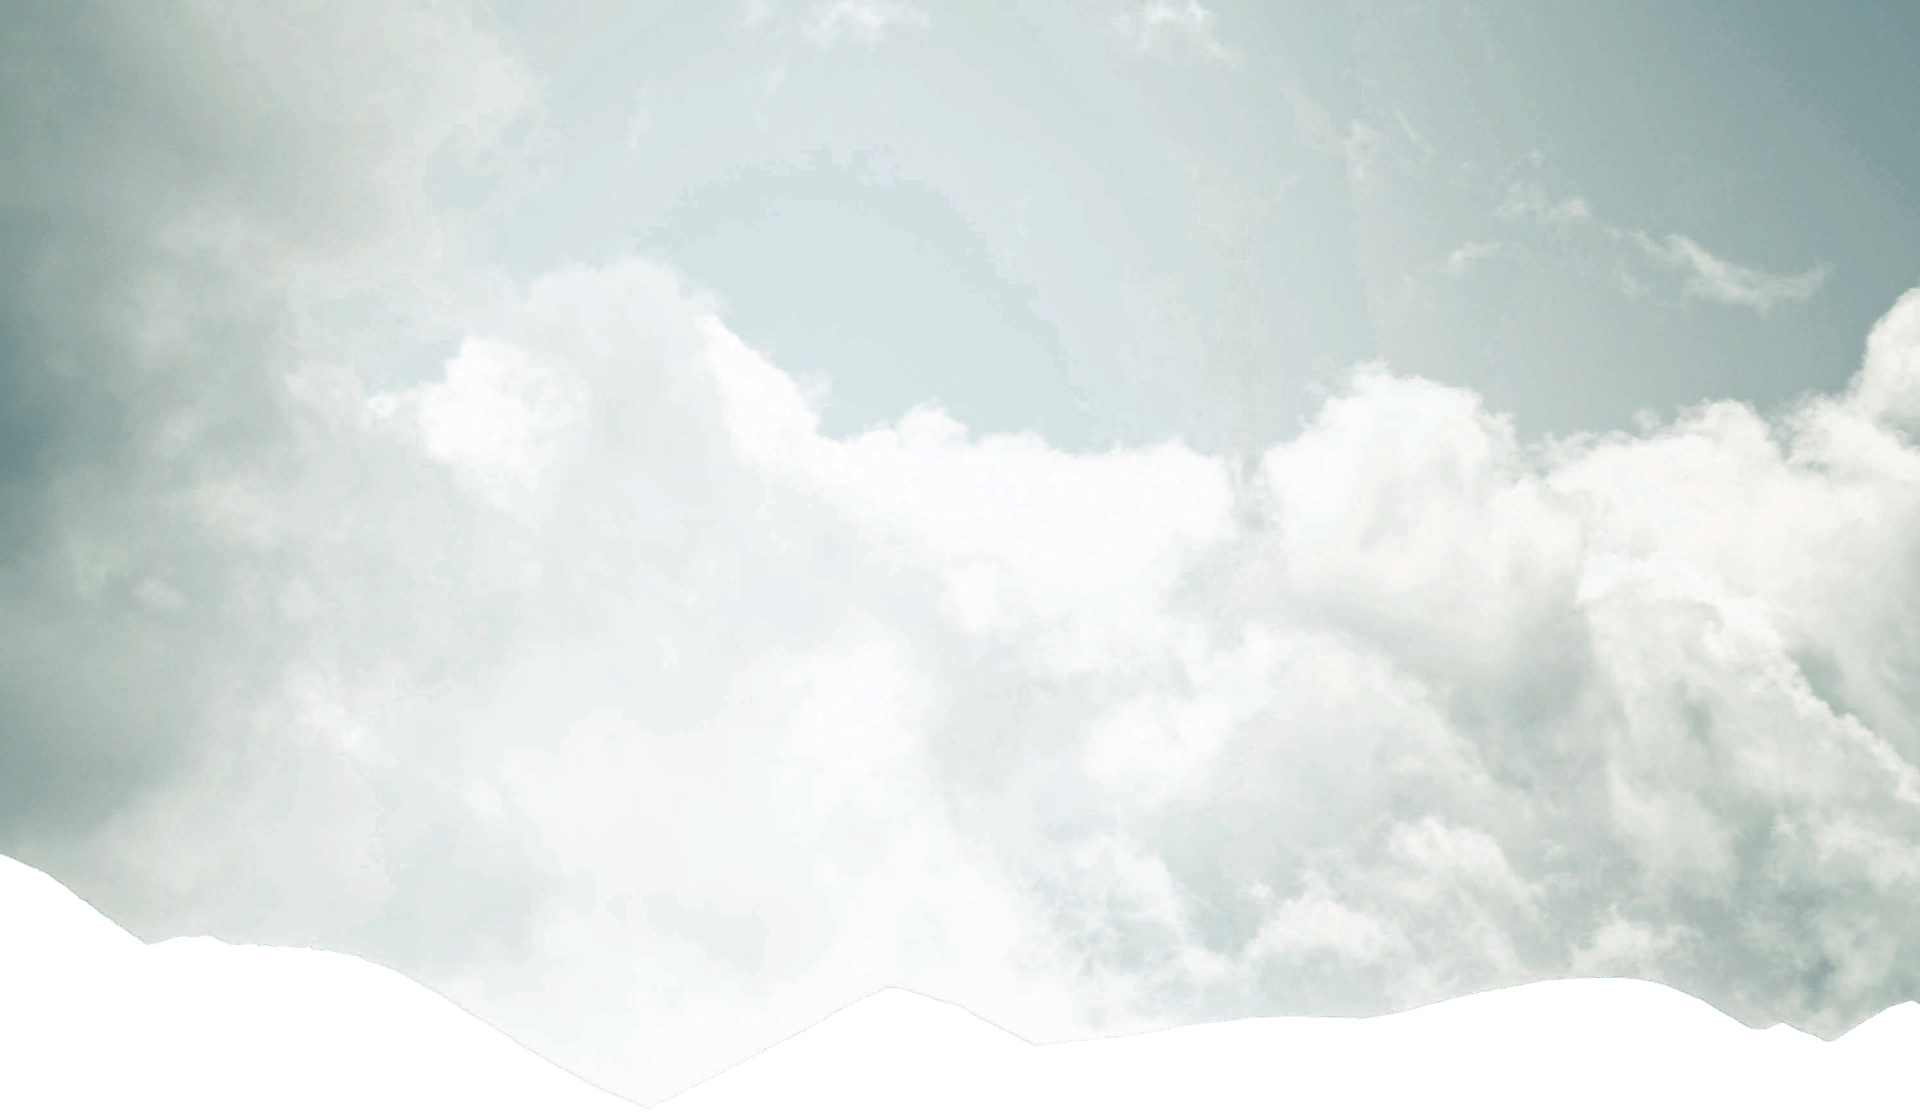
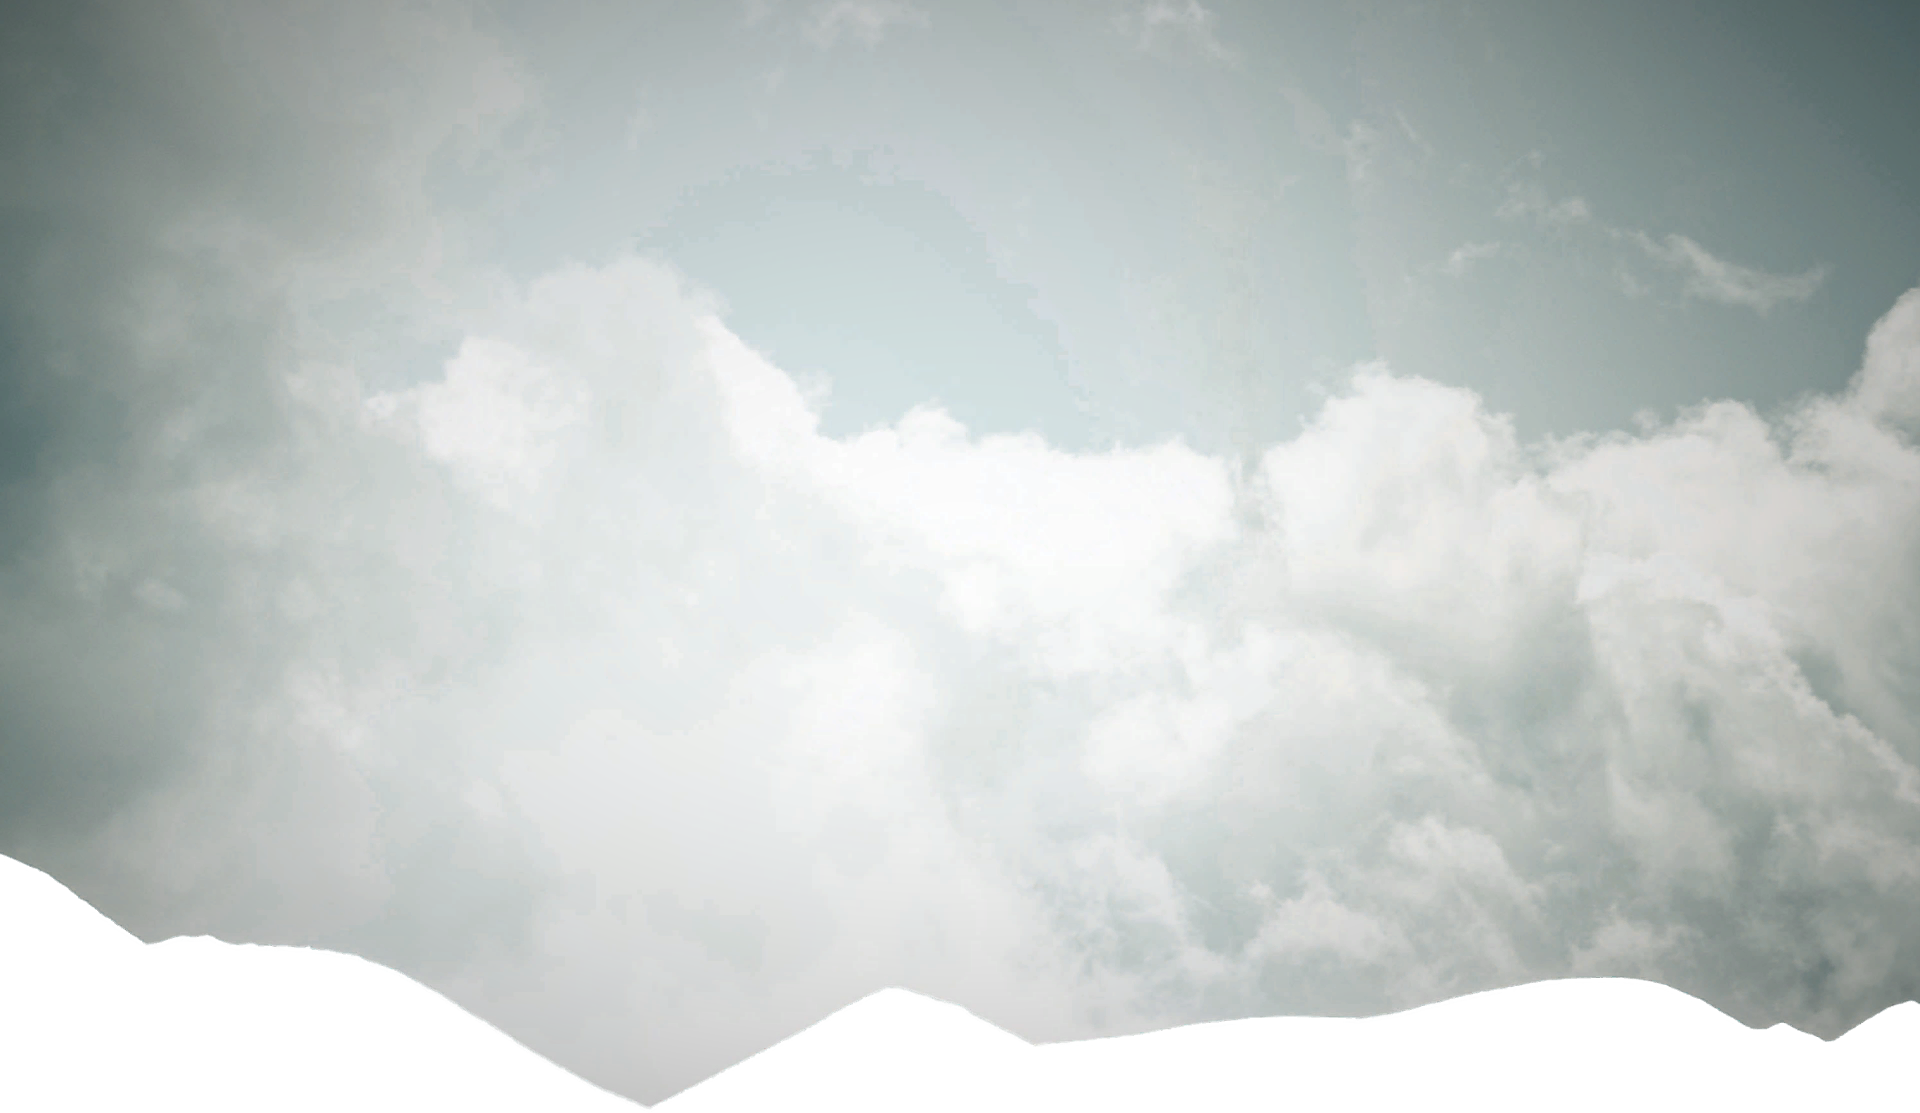
layout comoleted

diff --git a/css/style.css b/css/style.css
@@ -577,10 +577,8 @@ body._lock {
 
 .parallax {
   position: absolute;
-  width: 120%;
-  height: 120%;
-  top: -10%;
-  left: -10%;
+  width: 100%;
+  height: 100%;
   z-index: 1;
 }
 
@@ -603,7 +601,7 @@ body._lock {
 
 .parallax__human {
   background: url("../img/human.png") top/cover no-repeat;
-  top: 60%;
+  top: 65%;
   z-index: 5;
 }
 
@@ -616,7 +614,7 @@ body._lock {
   -webkit-box-direction: normal;
       -ms-flex-direction: column;
           flex-direction: column;
-  top: 25%;
+  top: 20%;
   z-index: 4;
 }
 
@@ -649,14 +647,16 @@ body._lock {
 .slider {
   width: 100%;
   height: 100%;
-  position: fixed;
+  position: absolute;
   display: -webkit-box;
   display: -ms-flexbox;
   display: flex;
   -webkit-box-align: center;
       -ms-flex-align: center;
           align-items: center;
-  z-index: 8;
+  -webkit-box-pack: center;
+      -ms-flex-pack: center;
+          justify-content: center;
 }
 
 .slider__container {
@@ -670,7 +670,7 @@ body._lock {
 }
 
 .socials {
-  position: relative;
+  position: fixed;
   display: -webkit-box;
   display: -ms-flexbox;
   display: flex;
@@ -684,7 +684,9 @@ body._lock {
   -webkit-box-align: center;
       -ms-flex-align: center;
           align-items: center;
-  padding-bottom: 42px;
+  padding-top: 107px;
+  z-index: 10;
+  left: calc((100vw - 1760px)/2);
 }
 
 .socials__text {
@@ -694,11 +696,8 @@ body._lock {
   font-family: "Gilroy-Bold";
   color: #fff;
   font-size: 18px;
-  width: 77px;
-}
-
-.socials span {
-  top: 65px;
+  width: 78px;
+  top: 39px;
 }
 
 .icon-twitter {
@@ -709,7 +708,9 @@ body._lock {
   display: -webkit-box;
   display: -ms-flexbox;
   display: flex;
-  position: relative;
+  position: fixed;
+  z-index: 10;
+  right: calc((100vw - 1760px)/2);
 }
 
 .scroll__link {
@@ -748,7 +749,31 @@ body._lock {
   right: 0;
 }
 
-@media (max-width: 754px) {
+@media (max-width: 1810px) {
+  .socials {
+    left: 50px;
+  }
+}
+
+@media (max-width: 1810px) and (max-width: 1760px) {
+  .socials {
+    left: calc(20px + 30 * ((100vw - 320px) / 1440));
+  }
+}
+
+@media (max-width: 1810px) {
+  .scroll {
+    right: 50px;
+  }
+}
+
+@media (max-width: 1810px) and (max-width: 1760px) {
+  .scroll {
+    right: calc(20px + 30 * ((100vw - 320px) / 1440));
+  }
+}
+
+@media (max-width: 1680px) {
   .socials {
     display: none;
   }

diff --git a/scss/_slider.scss b/scss/_slider.scss
@@ -1,10 +1,10 @@
 .slider{
     width: 100%;
     height: 100%;
-    position: fixed;
+    position: absolute;
     display: flex;
     align-items: center;
-    z-index: 8;
+    justify-content: center;
     &__container{
         position: relative;
         display: flex;
@@ -13,23 +13,26 @@
 }
 
 .socials{
-    position: relative;
+    position: fixed;
     display: flex;
     flex-direction: column;
     justify-content: flex-end;
     align-items: center;
-    padding-bottom: 42px;
+    padding-top: 107px;
+    z-index: 10;
+    left: calc((100vw - 1760px)/2);
     &__text{
         position: absolute;
         transform: rotate(90deg);
         font-family: $gilroyB;
         color: #fff;
         font-size: 18px;
-        width: 77px;
+        width: 78px;
+        top: 39px;
     }
-    & span{
-        top: 65px;
-    }
+    // & span{
+    //     top: 65px;
+    // }
 }
 
 .icon-twitter{
@@ -38,7 +41,9 @@
 
 .scroll{
     display: flex;
-    position: relative;
+    position: fixed;
+    z-index: 10;
+    right: calc((100vw - 1760px)/2);
     &__link{
         font-family: $gilroyM;
         color: #ffffff7a;
@@ -71,7 +76,16 @@
     }
 }
 
-@media (max-width: 754px) {
+@media(max-width: 1810px){
+    .socials{
+        @include adaptiv-value("left", 50, 20, 1);
+    }
+    .scroll{
+        @include adaptiv-value("right", 50, 20, 1);
+    }
+}
+
+@media (max-width: 1680px) {
     .socials{
         display: none;
     }

diff --git a/index.html b/index.html
@@ -38,7 +38,7 @@
         </div>
     </header>
 
-    <!-- <div class="slider">
+    <div class="slider">
         <div class="container slider__container">
             <div class="socials">
                 <span class="socials__text">Follow us</span>
@@ -56,7 +56,7 @@
                 <div class="scroll__marker"></div>
             </div>
         </div>
-    </div> -->
+    </div>
 
     <section class="hero">
         <div class="space hero__space">
@@ -184,7 +184,8 @@
                     </div>
                     <div class="footer__license">
                         <span class="footer__copy">Copyright 2019 MNTN, Inc. Terms & Privacy</span>
-                        <span class="footer__author">A concept by <a class="author" href="#">Kryston Schwarze</a></span>
+                        <span class="footer__author">A concept by <a class="author"
+                                href="https://dribbble.com/krystonschwarze">Kryston Schwarze</a></span>
                     </div>
                 </div>
                 <div class="footer-links">

diff --git a/scss/_parallax.scss b/scss/_parallax.scss
@@ -1,9 +1,9 @@
 .parallax{
     position: absolute;
-    width: 120%;
-	height: 120%;
-	top: -10%;
-	left: -10%;
+    width: 100%;
+	height: 100%;
+	// top: -10%;
+	// left: -10%;
 	z-index: 1;
     &__clouds{
         background: url("../img/clouds.png") top / cover no-repeat;
@@ -21,14 +21,14 @@
     }
     &__human{
         background: url("../img/human.png") top / cover no-repeat;
-        top: 60%;
+        top: 65%;
         z-index: 5;
     }
     &__content{
         position: absolute;
         display: flex;
         flex-direction: column;
-        top: 25%;
+        top: 20%;
         z-index: 4;
     }
 }

diff --git a/scss/_mixins.scss b/scss/_mixins.scss
@@ -21,9 +21,9 @@ $maxWidthContainer: 1760;
   }
 }
 
-@mixin adaptiv-value2($property, $startSize, $minSize, $widthContainer){
-  $addSize: $startSize - $minSize;
-  @media(max-width: #{$widthContainer + px}){
-    #{$property}: calc(#{$minSize + px} + #{$addSize} * ((100vw - 320px) / #{$widthContainer - 320}));
-  }
-}
+// @mixin adaptiv-position($property){
+//   $width: 100vw;
+//   @if ($width == 1760px) {
+//     #{$property}: none;
+//   }
+// }
